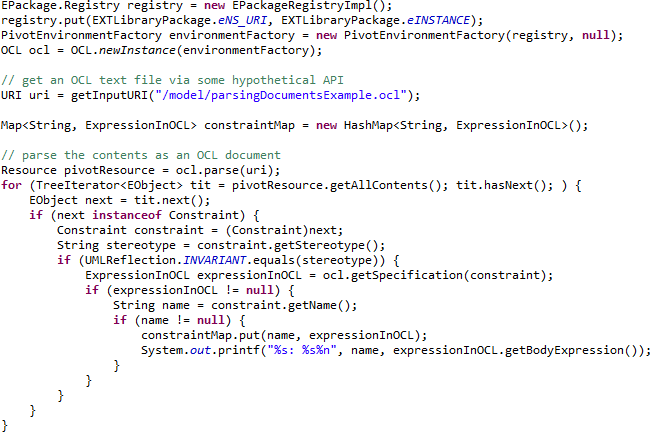
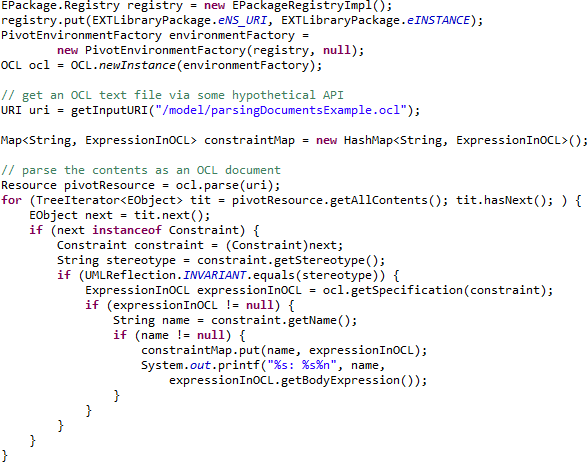
[372850] Typos and general review

diff --git a/tests/org.eclipse.ocl.examples.xtext.tests/src/org/eclipse/ocl/examples/test/xtext/PivotDocumentationExamples.java b/tests/org.eclipse.ocl.examples.xtext.tests/src/org/eclipse/ocl/examples/test/xtext/PivotDocumentationExamples.java
@@ -183,7 +183,8 @@ public class PivotDocumentationExamples extends XtextTestCase
 		//-------------------------------------------------------------------------
 		EPackage.Registry registry = new EPackageRegistryImpl();
 		registry.put(EXTLibraryPackage.eNS_URI, EXTLibraryPackage.eINSTANCE);
-		PivotEnvironmentFactory environmentFactory = new PivotEnvironmentFactory(registry, null);
+		PivotEnvironmentFactory environmentFactory =
+				new PivotEnvironmentFactory(registry, null);
 		OCL ocl = OCL.newInstance(environmentFactory);
 
 		// get an OCL text file via some hypothetical API
@@ -204,7 +205,8 @@ public class PivotDocumentationExamples extends XtextTestCase
 						String name = constraint.getName();
 						if (name != null) {
 							constraintMap.put(name, expressionInOCL);
-					        System.out.printf("%s: %s%n", name, expressionInOCL.getBodyExpression());
+					        System.out.printf("%s: %s%n", name,
+					        	expressionInOCL.getBodyExpression());
 						}
 					}
 				}
